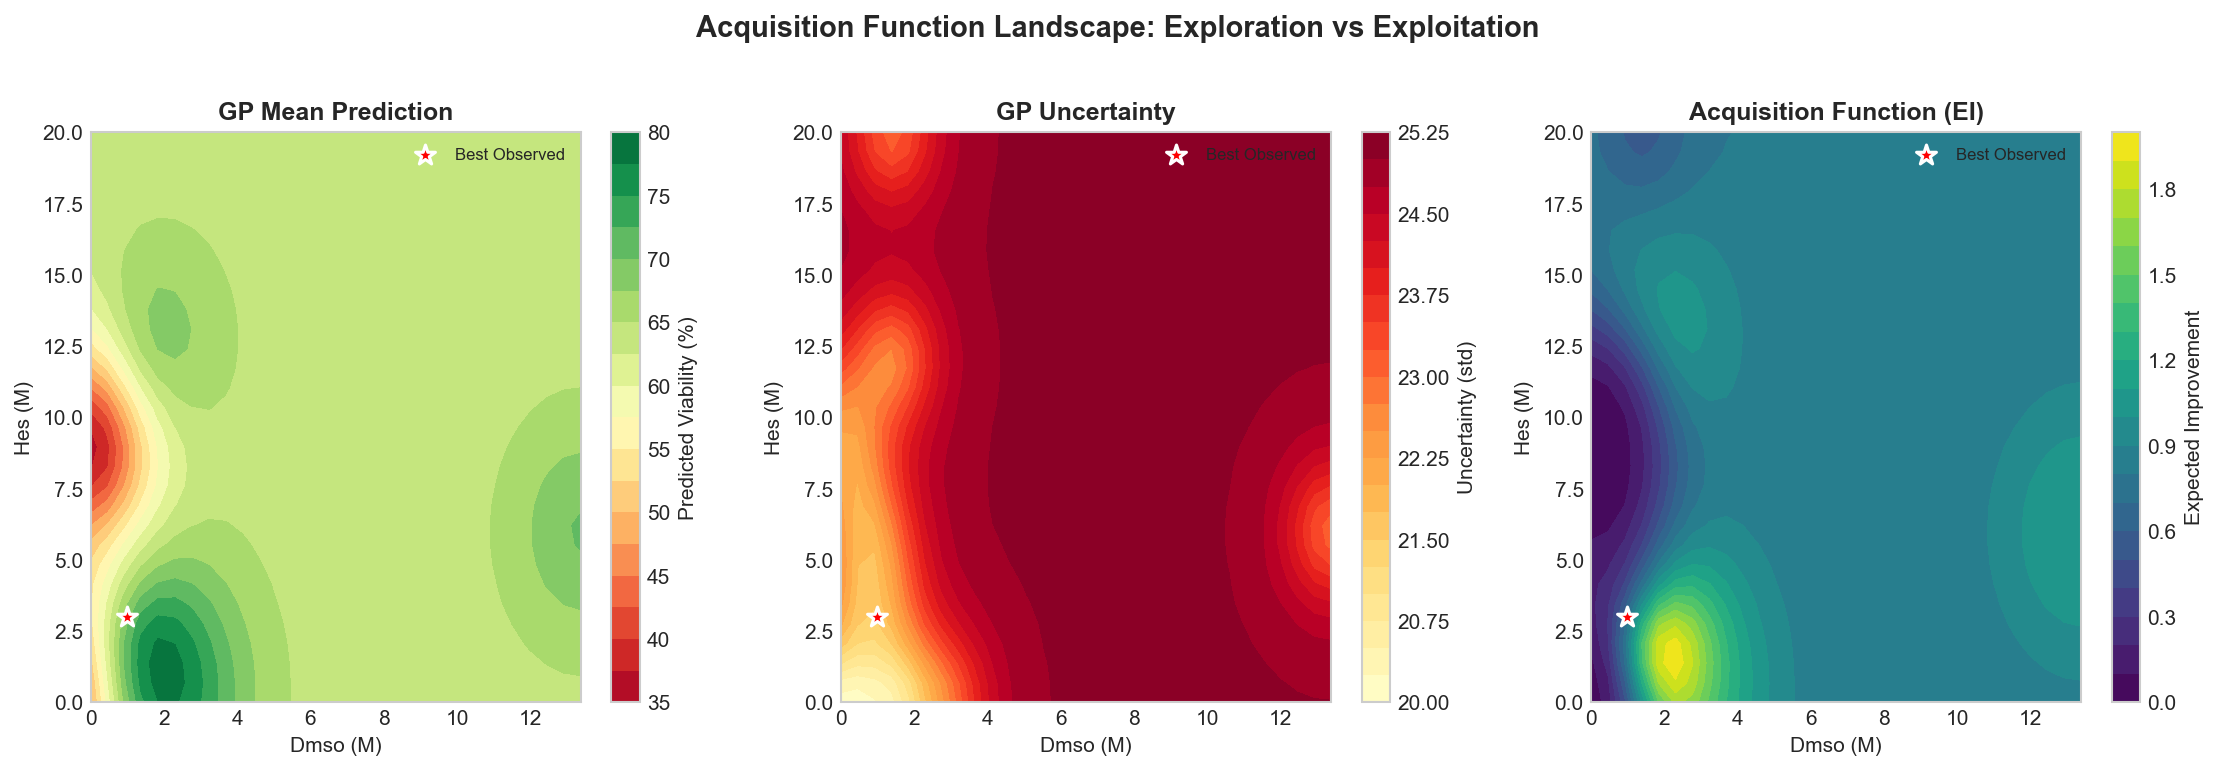
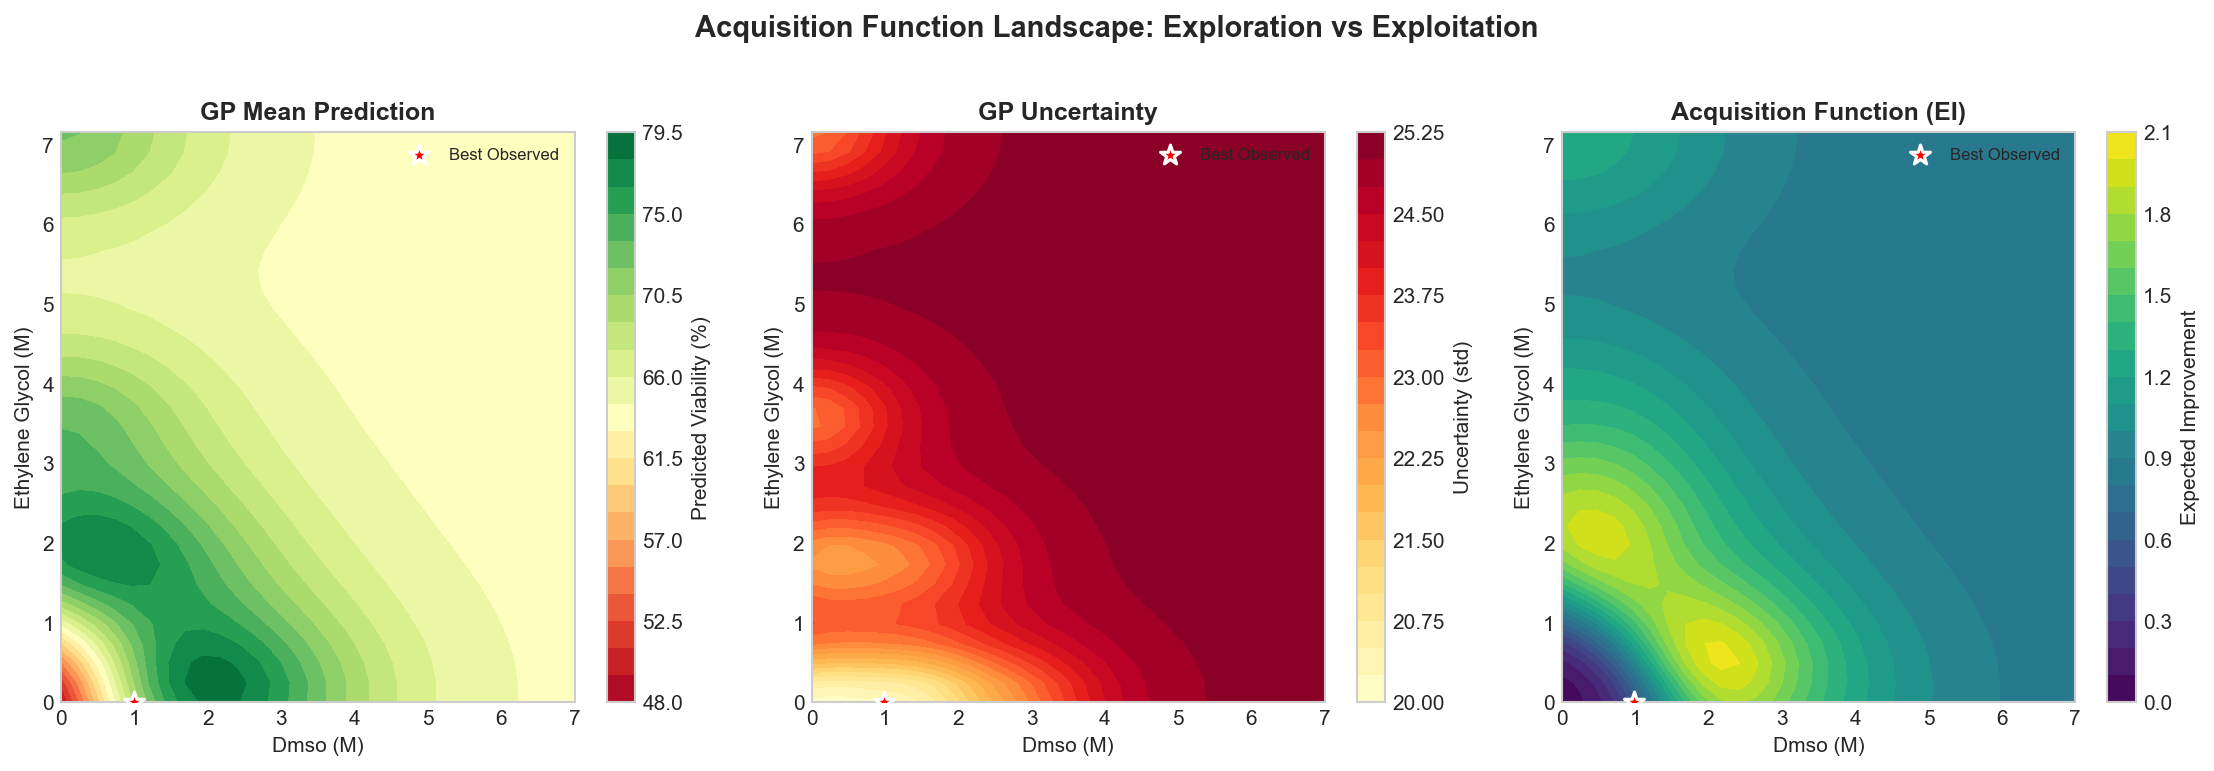
explainability graphs update

diff --git a/src/06_explainability/explainability.py b/src/06_explainability/explainability.py
@@ -70,14 +70,25 @@ class ExplainabilityConfig:
     
     # PDP settings
     n_pdp_points = 50
-    n_top_features_pdp = 8
+    pdp_specific_features = [
+        'ethylene_glycol_M', 'fbs_pct', 'hsa_pct', 'glycerol_M',
+        'human_serum_pct', 'hes_pct', 'dmso_M', 'trehalose_M'
+    ]
     
     # Contour settings
     n_contour_points = 30
     n_top_pairs = 3
+    interaction_specific_pairs = [
+        ('ethylene_glycol_M', 'fbs_pct'), 
+        ('ethylene_glycol_M', 'hsa_pct'), 
+        ('glycerol_M', 'hsa_pct')
+    ]
     
     # SHAP settings
     n_shap_samples = 100  # Background samples for SHAP
+    
+    # Acquisition settings
+    acquisition_specific_pair = ('dmso_M', 'ethylene_glycol_M')
     
     # Color settings
     cmap_viability = 'RdYlGn'
@@ -126,6 +137,15 @@ def load_model_and_data(project_root: str) -> Tuple[GaussianProcessRegressor,
 def clean_feature_name(name: str) -> str:
     """Clean feature name for display."""
     return name.replace('_M', '').replace('_pct', '').replace('_', ' ').title()
+
+
+def get_unit(feature: str) -> str:
+    """Get the appropriate unit for a feature."""
+    if '_pct' in feature:
+        return '%'
+    elif '_M' in feature:
+        return 'M'
+    return ''
 
 
 # =============================================================================
@@ -277,8 +297,11 @@ def plot_partial_dependence(gp: GaussianProcessRegressor, scaler: StandardScaler
     """
     config = config or ExplainabilityConfig()
     
-    # Get top features by importance
-    top_features = importance_df.nlargest(config.n_top_features_pdp, 'importance')['feature'].tolist()
+    # Get top features by importance or use specific features
+    if hasattr(config, 'pdp_specific_features') and config.pdp_specific_features:
+        top_features = config.pdp_specific_features
+    else:
+        top_features = importance_df.nlargest(config.n_top_features_pdp, 'importance')['feature'].tolist()
     
     # Get feature indices
     feature_indices = {name: i for i, name in enumerate(feature_names)}
@@ -328,7 +351,7 @@ def plot_partial_dependence(gp: GaussianProcessRegressor, scaler: StandardScaler
                         pdp_means + 1.96 * pdp_stds,
                         alpha=0.3, color='blue', label='95% CI')
         
-        ax.set_xlabel(f'{clean_feature_name(feature)} (M)', fontsize=10)
+        ax.set_xlabel(f'{clean_feature_name(feature)} ({get_unit(feature)})', fontsize=10)
         ax.set_ylabel('Predicted Viability (%)', fontsize=10)
         ax.set_title(f'PDP: {clean_feature_name(feature)}', fontsize=11, fontweight='bold')
         ax.legend(fontsize=8)
@@ -365,19 +388,20 @@ def plot_interaction_contours(gp: GaussianProcessRegressor, scaler: StandardScal
     # Get top features
     top_features = importance_df.nlargest(4, 'importance')['feature'].tolist()
     
-    # Get feature indices (handle _M suffix)
-    feature_indices = {}
-    for name in feature_names:
-        clean = name.replace('_M', '').replace('_pct', '')
-        feature_indices[clean] = feature_names.index(name)
+    # Get feature indices (use full feature names with suffixes)
+    feature_indices = {name: i for i, name in enumerate(feature_names)}
     
-    # Generate pairs
-    pairs = []
-    for i in range(len(top_features)):
-        for j in range(i + 1, len(top_features)):
-            pairs.append((top_features[i], top_features[j]))
-    
-    pairs = pairs[:config.n_top_pairs]
+    # Generate pairs or use specific pairs
+    if hasattr(config, 'interaction_specific_pairs') and config.interaction_specific_pairs:
+        pairs = config.interaction_specific_pairs
+    else:
+        # Generate pairs
+        pairs = []
+        for i in range(len(top_features)):
+            for j in range(i + 1, len(top_features)):
+                pairs.append((top_features[i], top_features[j]))
+        
+        pairs = pairs[:config.n_top_pairs]
     
     # Create figure
     fig, axes = plt.subplots(1, len(pairs), figsize=(6 * len(pairs), 5))
@@ -417,8 +441,8 @@ def plot_interaction_contours(gp: GaussianProcessRegressor, scaler: StandardScal
         # Add contour lines
         ax.contour(X1, X2, Z, levels=10, colors='white', alpha=0.3, linewidths=0.5)
         
-        ax.set_xlabel(f'{clean_feature_name(feat1)} (M)', fontsize=10)
-        ax.set_ylabel(f'{clean_feature_name(feat2)} (M)', fontsize=10)
+        ax.set_xlabel(f'{clean_feature_name(feat1)} ({get_unit(feat1)})', fontsize=10)
+        ax.set_ylabel(f'{clean_feature_name(feat2)} ({get_unit(feat2)})', fontsize=10)
         ax.set_title(f'{clean_feature_name(feat1)} × {clean_feature_name(feat2)}', 
                      fontsize=11, fontweight='bold')
     
@@ -456,14 +480,15 @@ def plot_acquisition_landscape(gp: GaussianProcessRegressor, scaler: StandardSca
     """
     config = config or ExplainabilityConfig()
     
-    # Get top 2 features for 2D visualization
-    top_features = importance_df.nlargest(2, 'importance')['feature'].tolist()
+    # Get features for 2D visualization
+    if hasattr(config, 'acquisition_specific_pair') and config.acquisition_specific_pair:
+        top_features = list(config.acquisition_specific_pair)
+    else:
+        # Get top 2 features
+        top_features = importance_df.nlargest(2, 'importance')['feature'].tolist()
     
-    # Get feature indices
-    feature_indices = {}
-    for name in feature_names:
-        clean = name.replace('_M', '').replace('_pct', '')
-        feature_indices[clean] = feature_names.index(name)
+    # Get feature indices (use full feature names with suffixes)
+    feature_indices = {name: i for i, name in enumerate(feature_names)}
     
     feat1, feat2 = top_features[0], top_features[1]
     idx1 = feature_indices.get(feat1)
@@ -472,9 +497,9 @@ def plot_acquisition_landscape(gp: GaussianProcessRegressor, scaler: StandardSca
     X_mean = X.mean(axis=0)
     y_best = y.max()
     
-    # Create grid
+    # Create grid (use fixed range 0-7M for DMSO x-axis to exclude outliers)
     n_points = config.n_contour_points
-    x1_range = np.linspace(X[:, idx1].min(), X[:, idx1].max(), n_points)
+    x1_range = np.linspace(0, 7, n_points)  # Fixed range for DMSO
     x2_range = np.linspace(X[:, idx2].min(), X[:, idx2].max(), n_points)
     X1, X2 = np.meshgrid(x1_range, x2_range)
     
@@ -500,22 +525,22 @@ def plot_acquisition_landscape(gp: GaussianProcessRegressor, scaler: StandardSca
     # Plot 1: GP Mean
     contour1 = axes[0].contourf(X1, X2, Z_mean, levels=20, cmap=config.cmap_viability)
     plt.colorbar(contour1, ax=axes[0], label='Predicted Viability (%)')
-    axes[0].set_xlabel(f'{clean_feature_name(feat1)} (M)')
-    axes[0].set_ylabel(f'{clean_feature_name(feat2)} (M)')
+    axes[0].set_xlabel(f'{clean_feature_name(feat1)} ({get_unit(feat1)})')
+    axes[0].set_ylabel(f'{clean_feature_name(feat2)} ({get_unit(feat2)})')
     axes[0].set_title('GP Mean Prediction', fontweight='bold')
     
     # Plot 2: GP Uncertainty
     contour2 = axes[1].contourf(X1, X2, Z_std, levels=20, cmap=config.cmap_uncertainty)
     plt.colorbar(contour2, ax=axes[1], label='Uncertainty (std)')
-    axes[1].set_xlabel(f'{clean_feature_name(feat1)} (M)')
-    axes[1].set_ylabel(f'{clean_feature_name(feat2)} (M)')
+    axes[1].set_xlabel(f'{clean_feature_name(feat1)} ({get_unit(feat1)})')
+    axes[1].set_ylabel(f'{clean_feature_name(feat2)} ({get_unit(feat2)})')
     axes[1].set_title('GP Uncertainty', fontweight='bold')
     
     # Plot 3: Expected Improvement
     contour3 = axes[2].contourf(X1, X2, Z_ei, levels=20, cmap=config.cmap_ei)
     plt.colorbar(contour3, ax=axes[2], label='Expected Improvement')
-    axes[2].set_xlabel(f'{clean_feature_name(feat1)} (M)')
-    axes[2].set_ylabel(f'{clean_feature_name(feat2)} (M)')
+    axes[2].set_xlabel(f'{clean_feature_name(feat1)} ({get_unit(feat1)})')
+    axes[2].set_ylabel(f'{clean_feature_name(feat2)} ({get_unit(feat2)})')
     axes[2].set_title('Acquisition Function (EI)', fontweight='bold')
     
     # Mark best observed point
